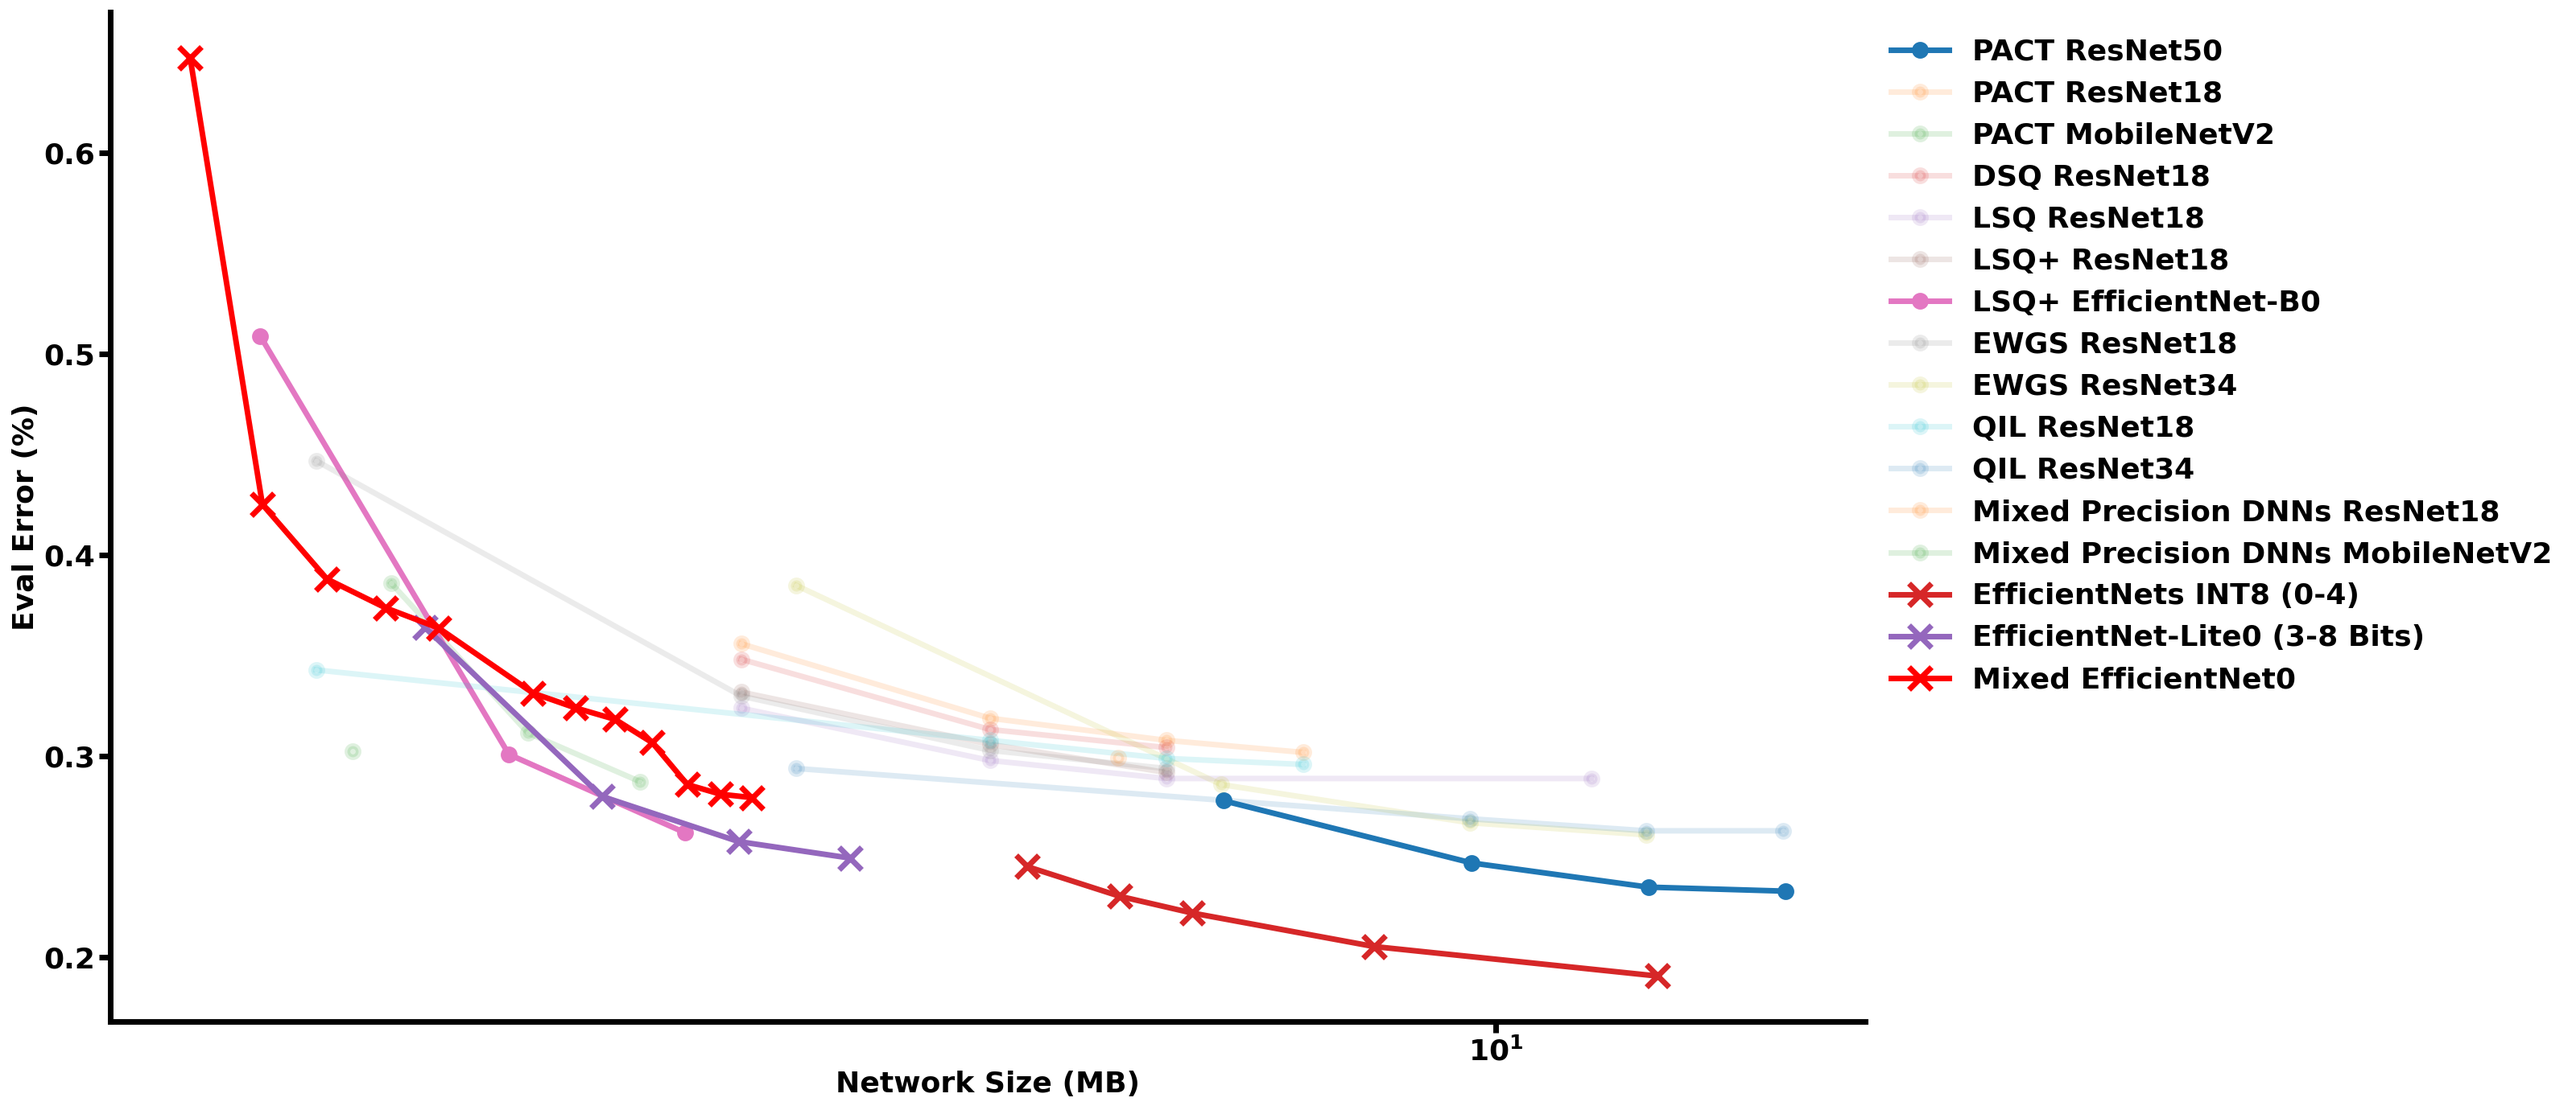
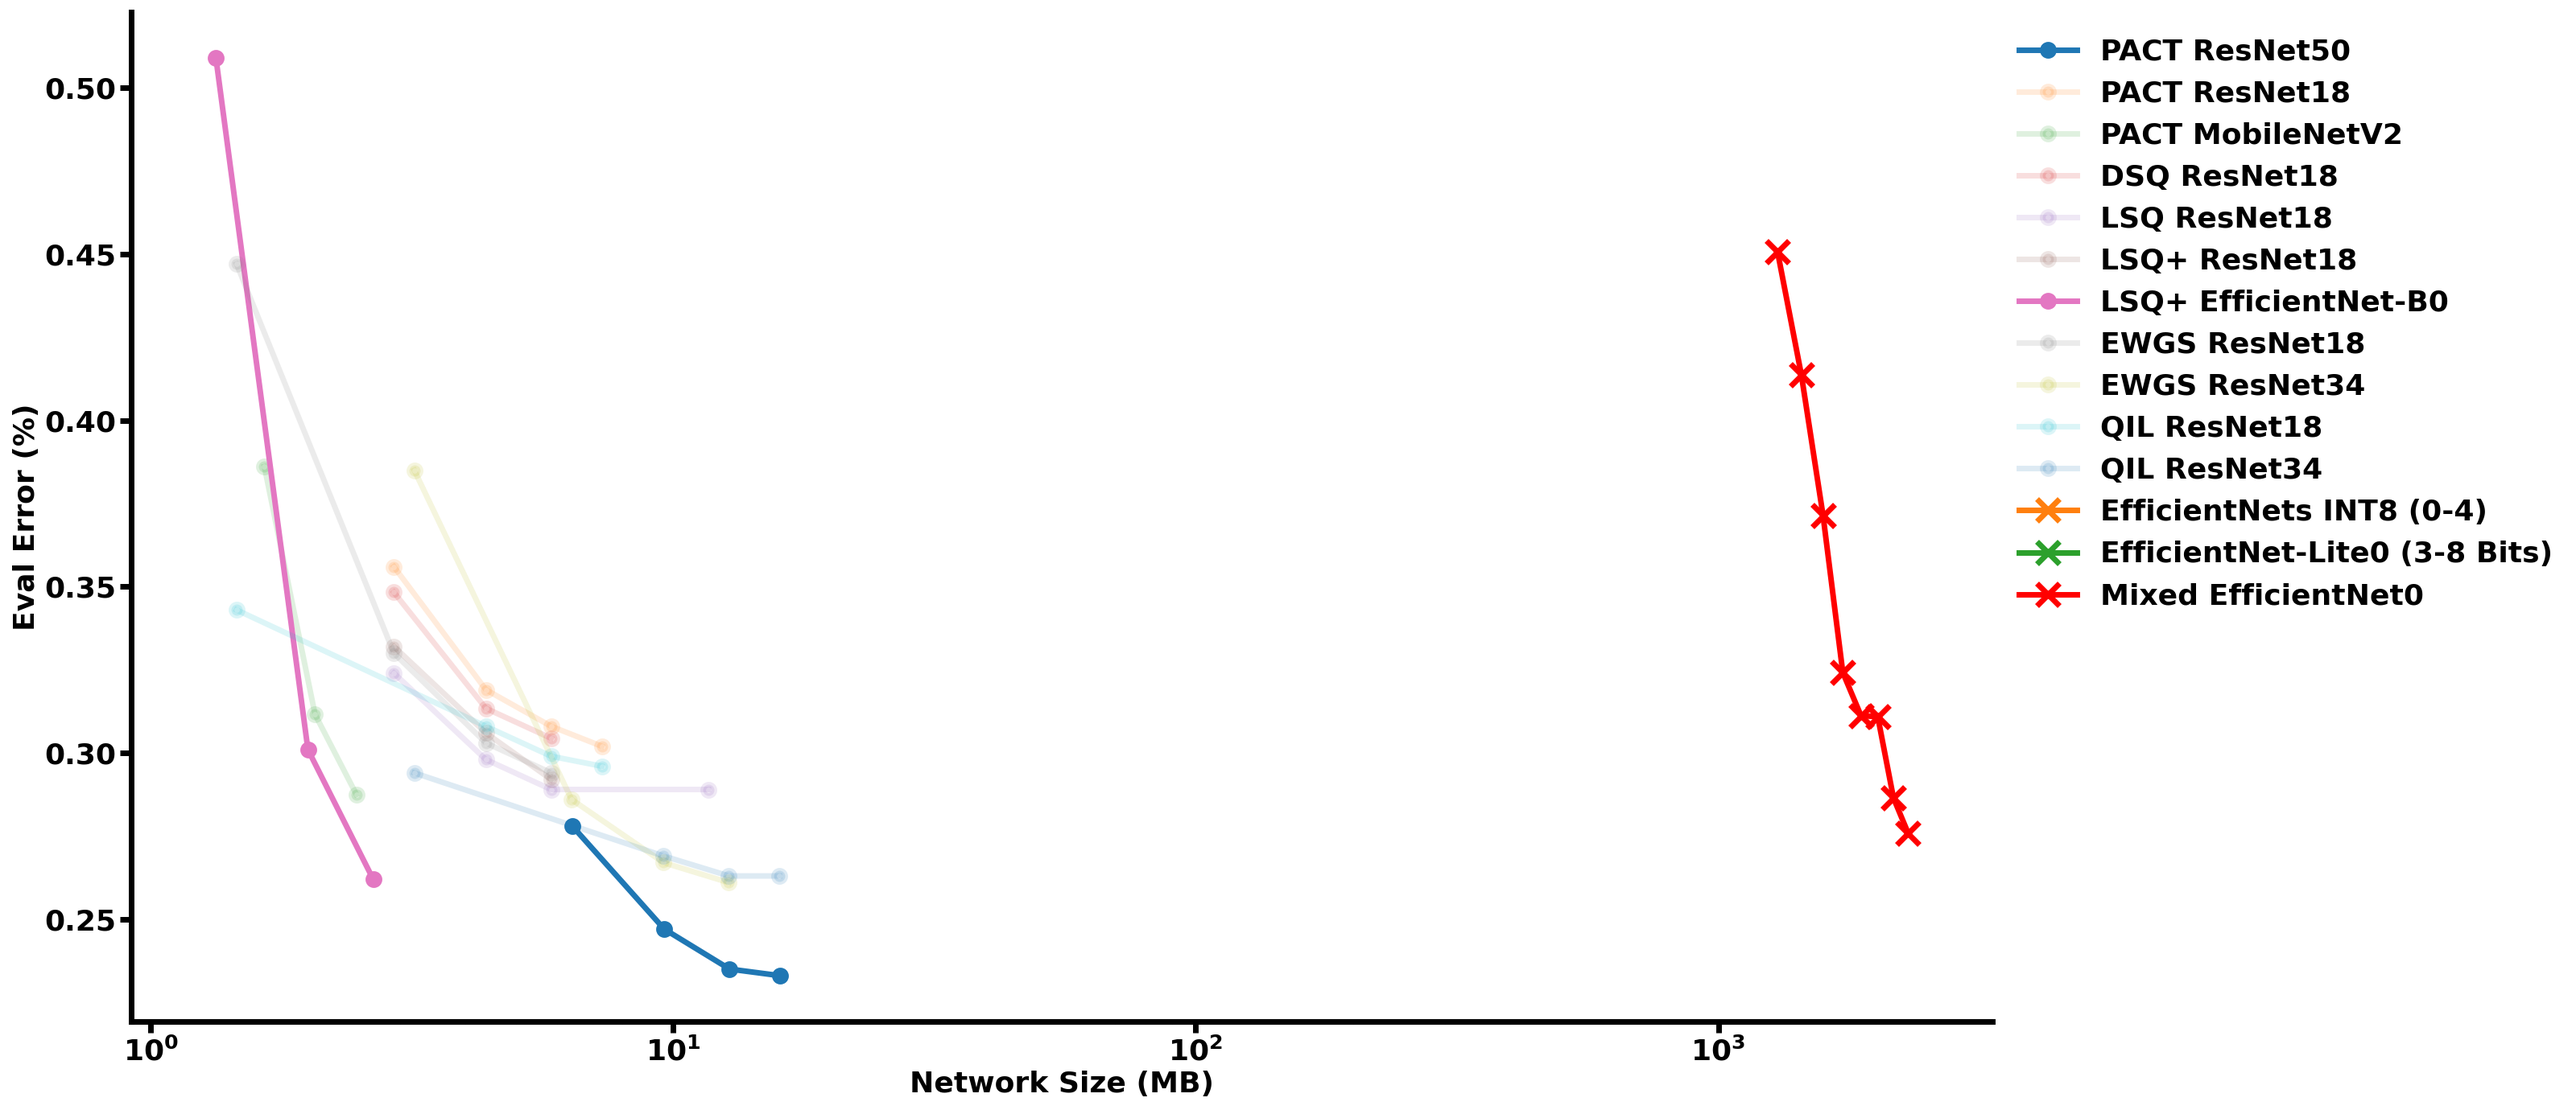
normal - new fig script

diff --git a/examples/efficientnet/visualization.py b/examples/efficientnet/visualization.py
@@ -637,21 +637,21 @@ competitors = {
     #     'alpha': 1.,
     # },
 
-    'mixed_resnet18': {
-        # https://arxiv.org/abs/1905.11452
-        'eval_err': [0.2992],
-        'size_mb': np.array([5.4]),
-        'name': 'Mixed Precision DNNs ResNet18',
-        'alpha': .15,
-    },
+    # 'mixed_resnet18': {
+    #     # https://arxiv.org/abs/1905.11452
+    #     'eval_err': [0.2992],
+    #     'size_mb': np.array([5.4]),
+    #     'name': 'Mixed Precision DNNs ResNet18',
+    #     'alpha': .15,
+    # },
 
-    'mixed_mobilev2': {
-        # https://arxiv.org/abs/1905.11452
-        'eval_err': [0.3026],
-        'size_mb': np.array([1.55]),
-        'name': 'Mixed Precision DNNs MobileNetV2',
-        'alpha': .15,
-    },
+    # 'mixed_mobilev2': {
+    #     # https://arxiv.org/abs/1905.11452
+    #     'eval_err': [0.3026],
+    #     'size_mb': np.array([1.55]),
+    #     'name': 'Mixed Precision DNNs MobileNetV2',
+    #     'alpha': .15,
+    # },
 
     # 'haq_mobilev2': {
     #     # https://arxiv.org/pdf/1811.08886.pdf
@@ -771,10 +771,10 @@ def plot_surrogate():
       prop={'weight': 'bold', 'size': font_size}
   )
 
-  times = get_times_rel_ste()
-  # times = np.array([0.00000000e+00, 4.57459557e-01, 4.45819267e-01,
-  #     2.40027758e-04,
-  #     1.25836929e-02, 1.25226535e-01, 1.49267876e-01, 1.08655595e-01])
+  # times = get_times_rel_ste()
+  times = np.array([0.00000000e+00, 4.57459557e-01, 4.45819267e-01,
+                    2.40027758e-04, 1.25836929e-02, 1.25226535e-01, 1.49267876e-01,
+                    1.08655595e-01])
 
   ax2 = ax.twinx()
   ax2.bar(base_x / 2 + .2, times * 100, width=.1,
@@ -962,11 +962,15 @@ def plot_comparison(name):
 
   plot_line(ax, enet0_lr_best)
 
-  xv = [1.1886465, 1.337227313, 1.485808125, 1.634388938, 1.78296975,
-        2.080131375, 2.228712188, 2.377293, 2.525873813, 2.674454625,
-        2.823035438, 2.97161625]
-  yv = [0.6473, 0.4253, 0.3882, 0.3739, 0.3638, 0.3314,
-        0.3241, 0.3184, 0.3068, 0.286, 0.2812, 0.2795]
+  # xv = [1.1886465, 1.337227313, 1.485808125, 1.634388938, 1.78296975,
+  #       2.080131375, 2.228712188, 2.377293, 2.525873813, 2.674454625,
+  #       2.823035438, 2.97161625]
+  # yv = [0.6473, 0.4253, 0.3882, 0.3739, 0.3638, 0.3314,
+  #       0.3241, 0.3184, 0.3068, 0.286, 0.2812, 0.2795]
+
+  xv = 577.0 * np.array([2.25, 2.5, 2.75, 3.0, 3.25, 3.5, 3.75, 4.0])
+  yv = 1 - np.array([0.5492, 0.5864, 0.6286, 0.6758,
+                    0.6888, 0.6891, 0.7135, 0.7241])
   ax.plot(xv, yv, marker='x', label="Mixed EfficientNet0",
           ms=20, markeredgewidth=5, linewidth=5, color='red')
   # plot_line(ax, enet0_dynamic_lsq)
@@ -1031,7 +1035,7 @@ if __name__ == '__main__':
   print("TensorBoard version: ", tb.__version__)
 
   plot_surrogate()
-  # plot_comparison('figures/overview.png')
+  plot_comparison('figures/overview.png')
 
   # # df_dynamic_lr = table(enet0_dynamic_lr)
   # df_static_lr = table_lr(enet0_static_lr)
